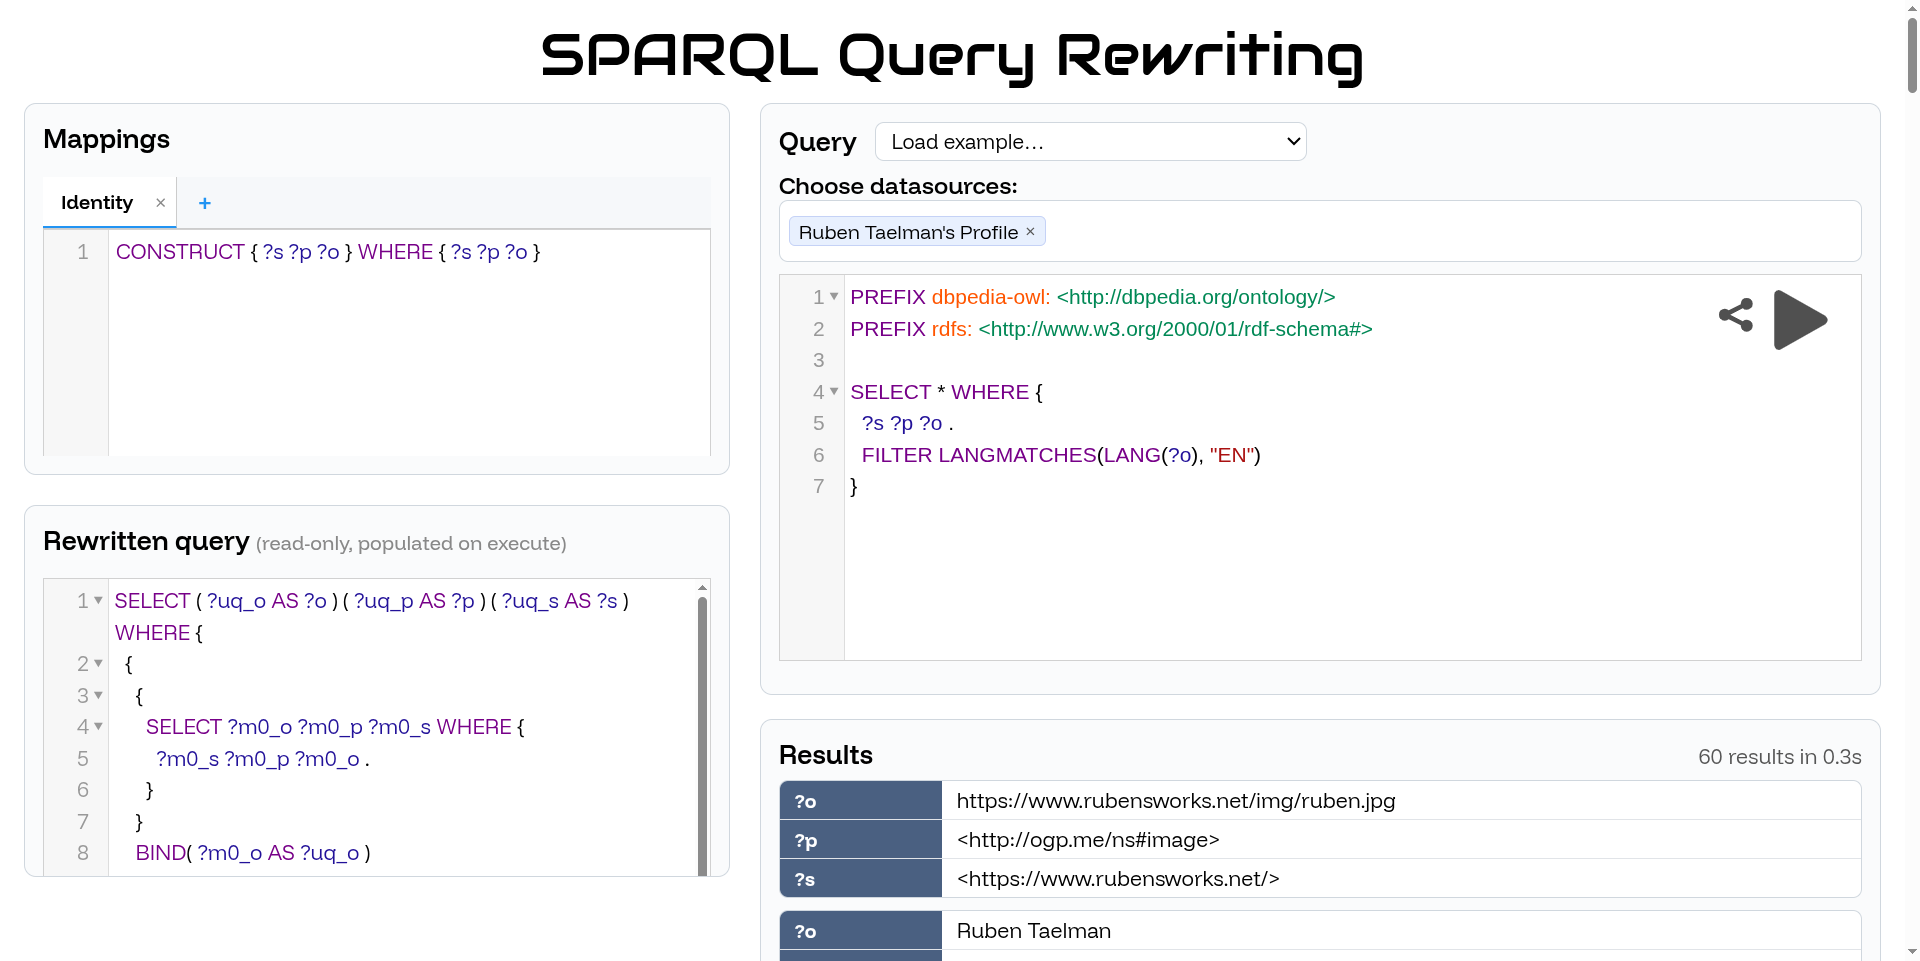
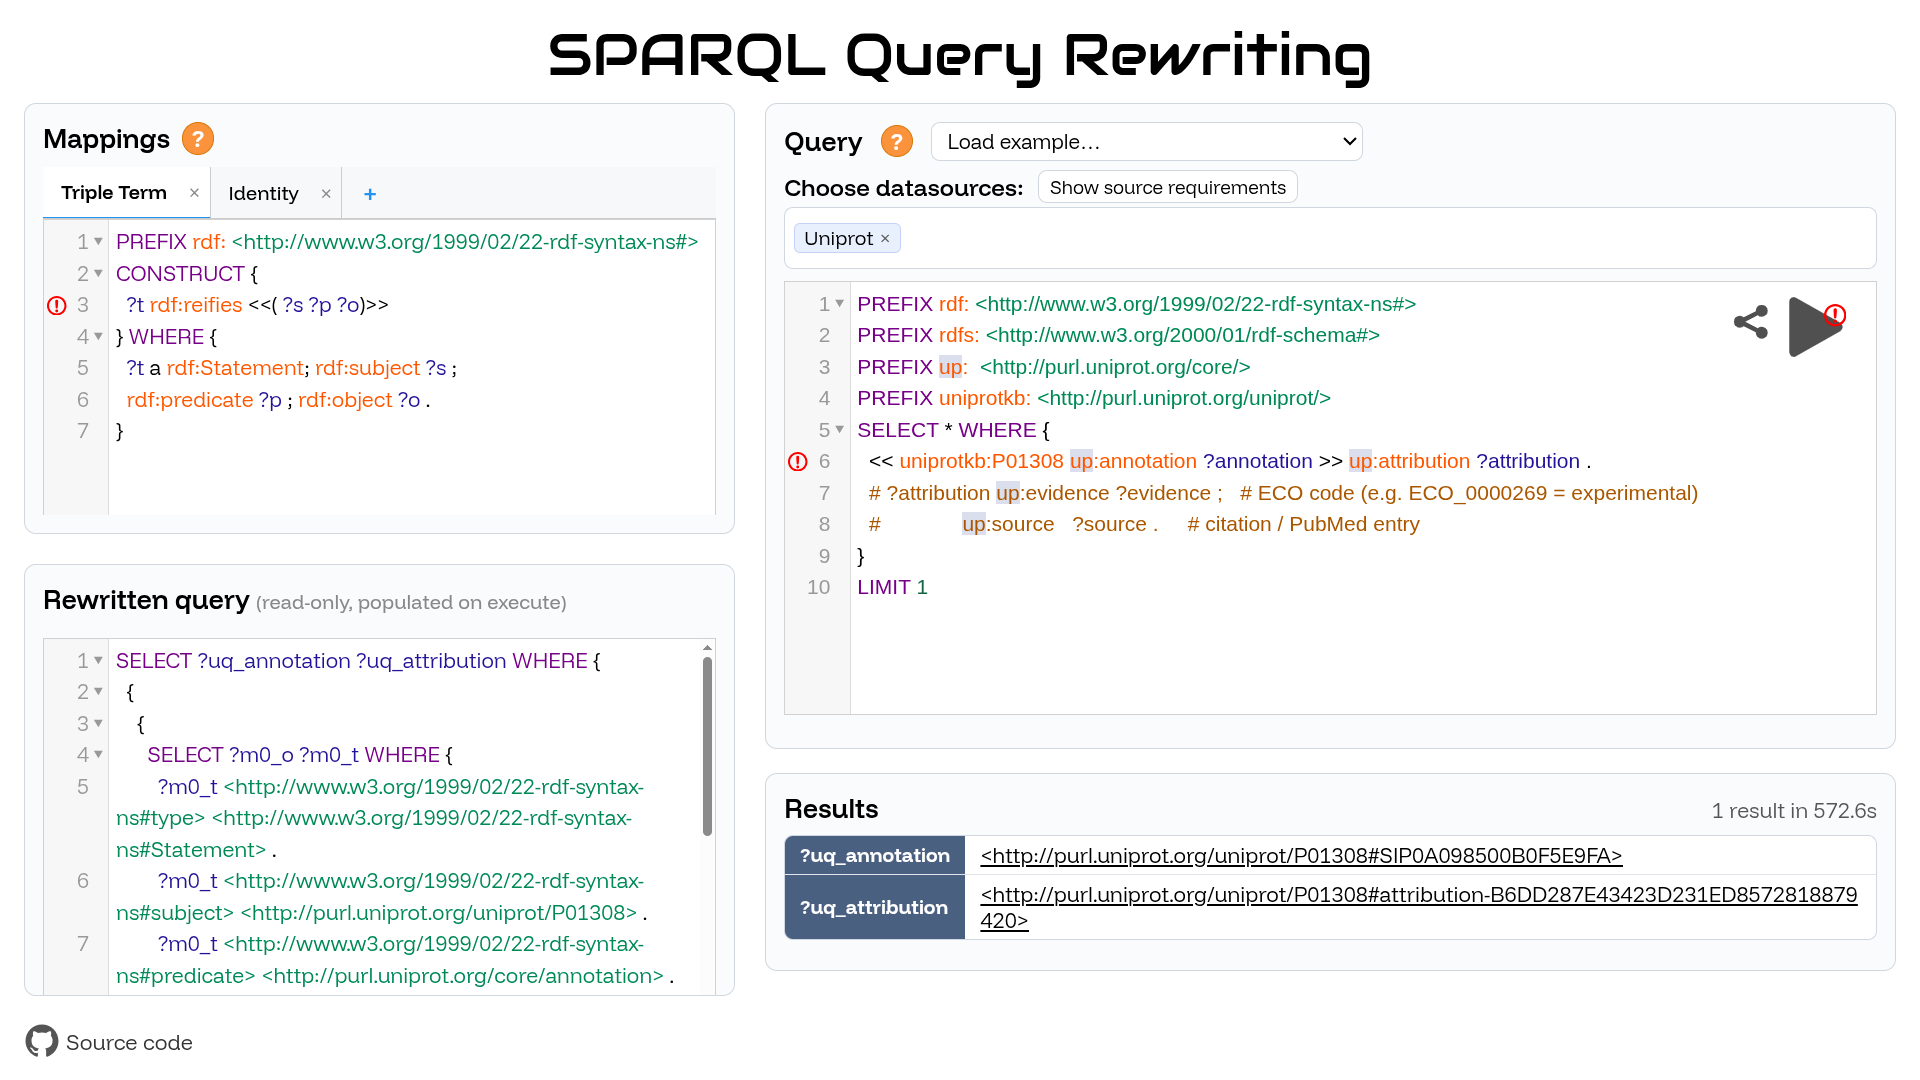
better figures

diff --git a/content/3.technique.md b/content/3.technique.md
@@ -1,7 +1,9 @@
 ## Query rewriting
 {:#technique}
 <figure id="architecture">
-<img src="images/diagram.png" alt="Architecture diagram: a SPARQL 1.2 query Q^{1.2} is sent to a Federation Mediator that applies mappings M1 and M2. M1 rewrites the relevant fragment into a SPARQL 1.1 query Q^{1.1}_{M1} against a single source A. M2 is a GAV mapping that rewrites another fragment into a SPARQL 1.2 query Q^{1.2}_{M2} federated across sources B, C, and D." />
+    <img src="images/interop.svg"
+         style="width: 80%"
+    alt="Architecture diagram: a SPARQL 1.2 query Q^{1.2} is sent to a Federation Mediator that applies mappings M1 and M2. M1 rewrites the relevant fragment into a SPARQL 1.1 query Q^{1.1}_{M1} against a single source A. M2 is a GAV mapping that rewrites another fragment into a SPARQL 1.2 query Q^{1.2}_{M2} federated across sources B, C, and D." />
 <figcaption markdown="block">
 A SPARQL 1.2 query $$Q^{1.2}$$ enters the Federation Mediator, which rewrites it through user-authored mappings.
 The red box highlights the reification interoperability use-case: mapping $$M1$$ rewrites the query into $$Q^{1.1}_{M1}$$ against a single legacy source $$A$$ that uses an established reification pattern.
